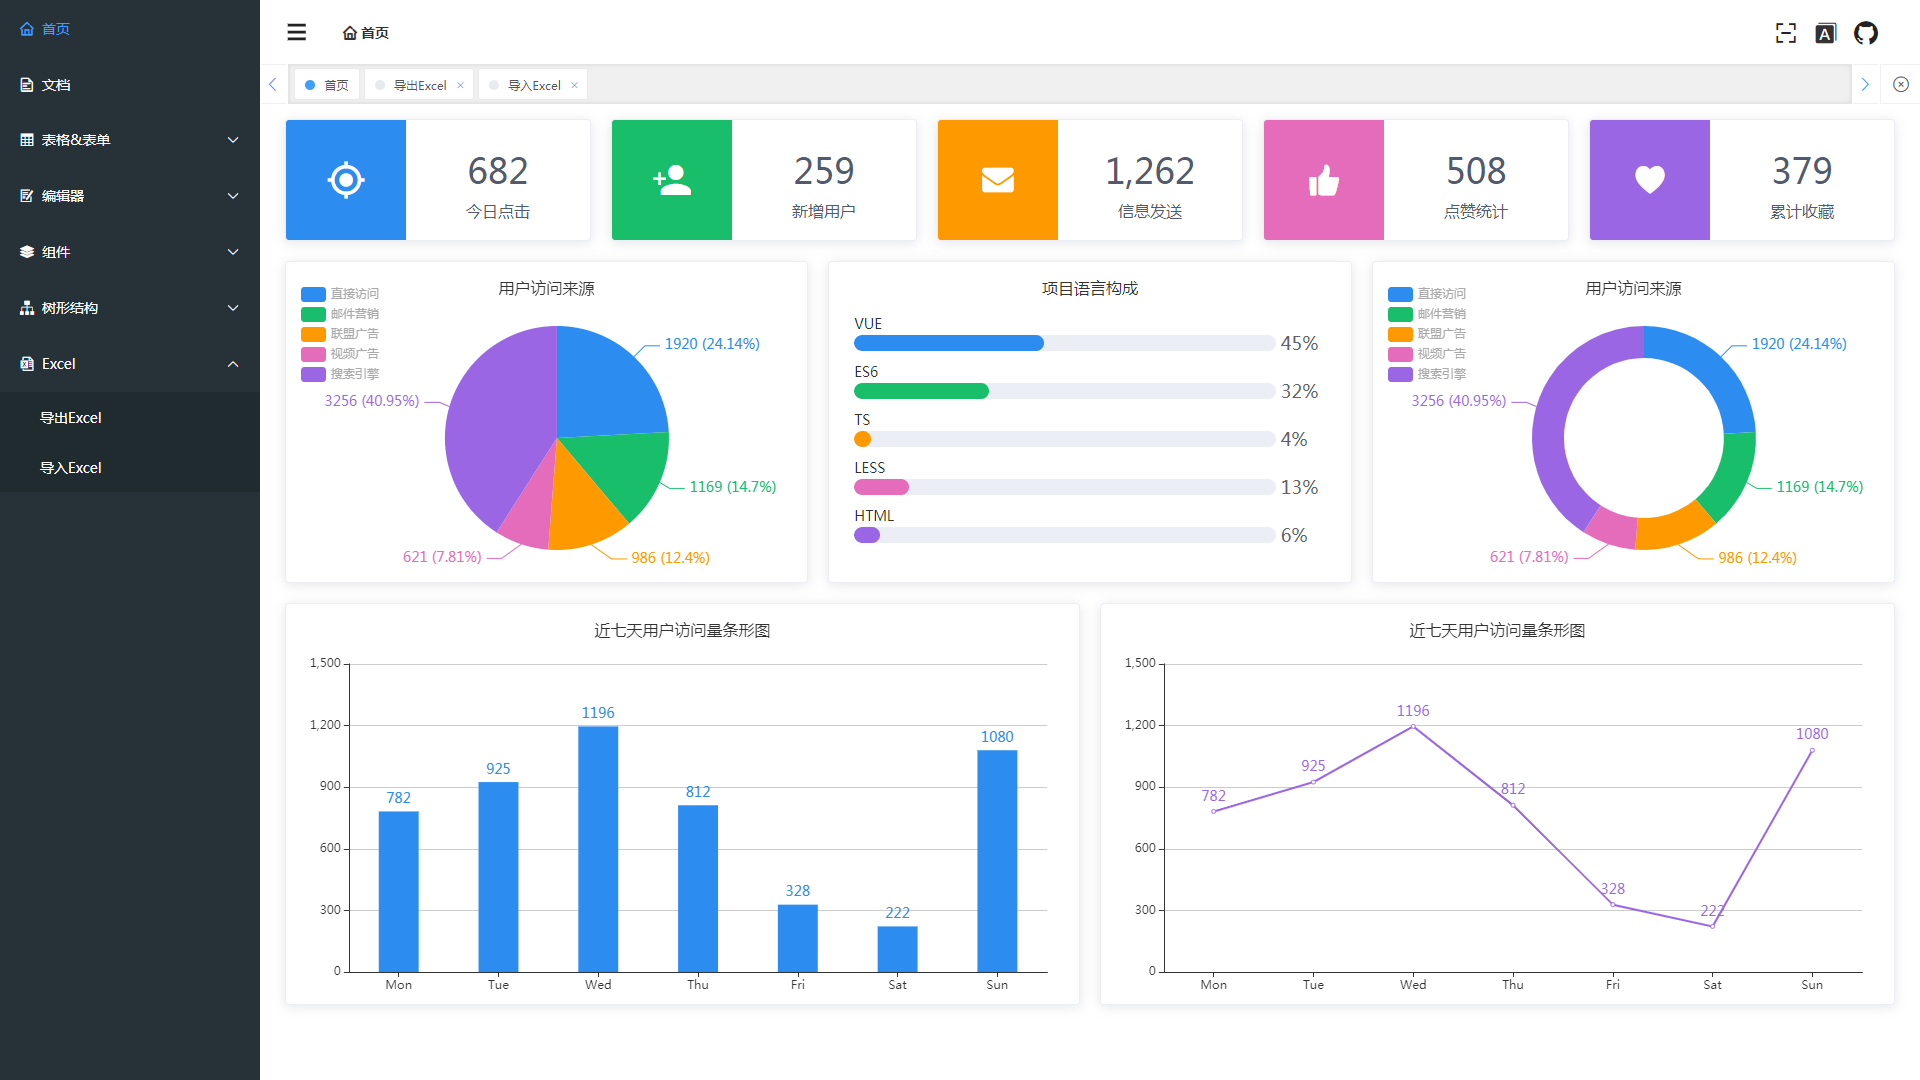
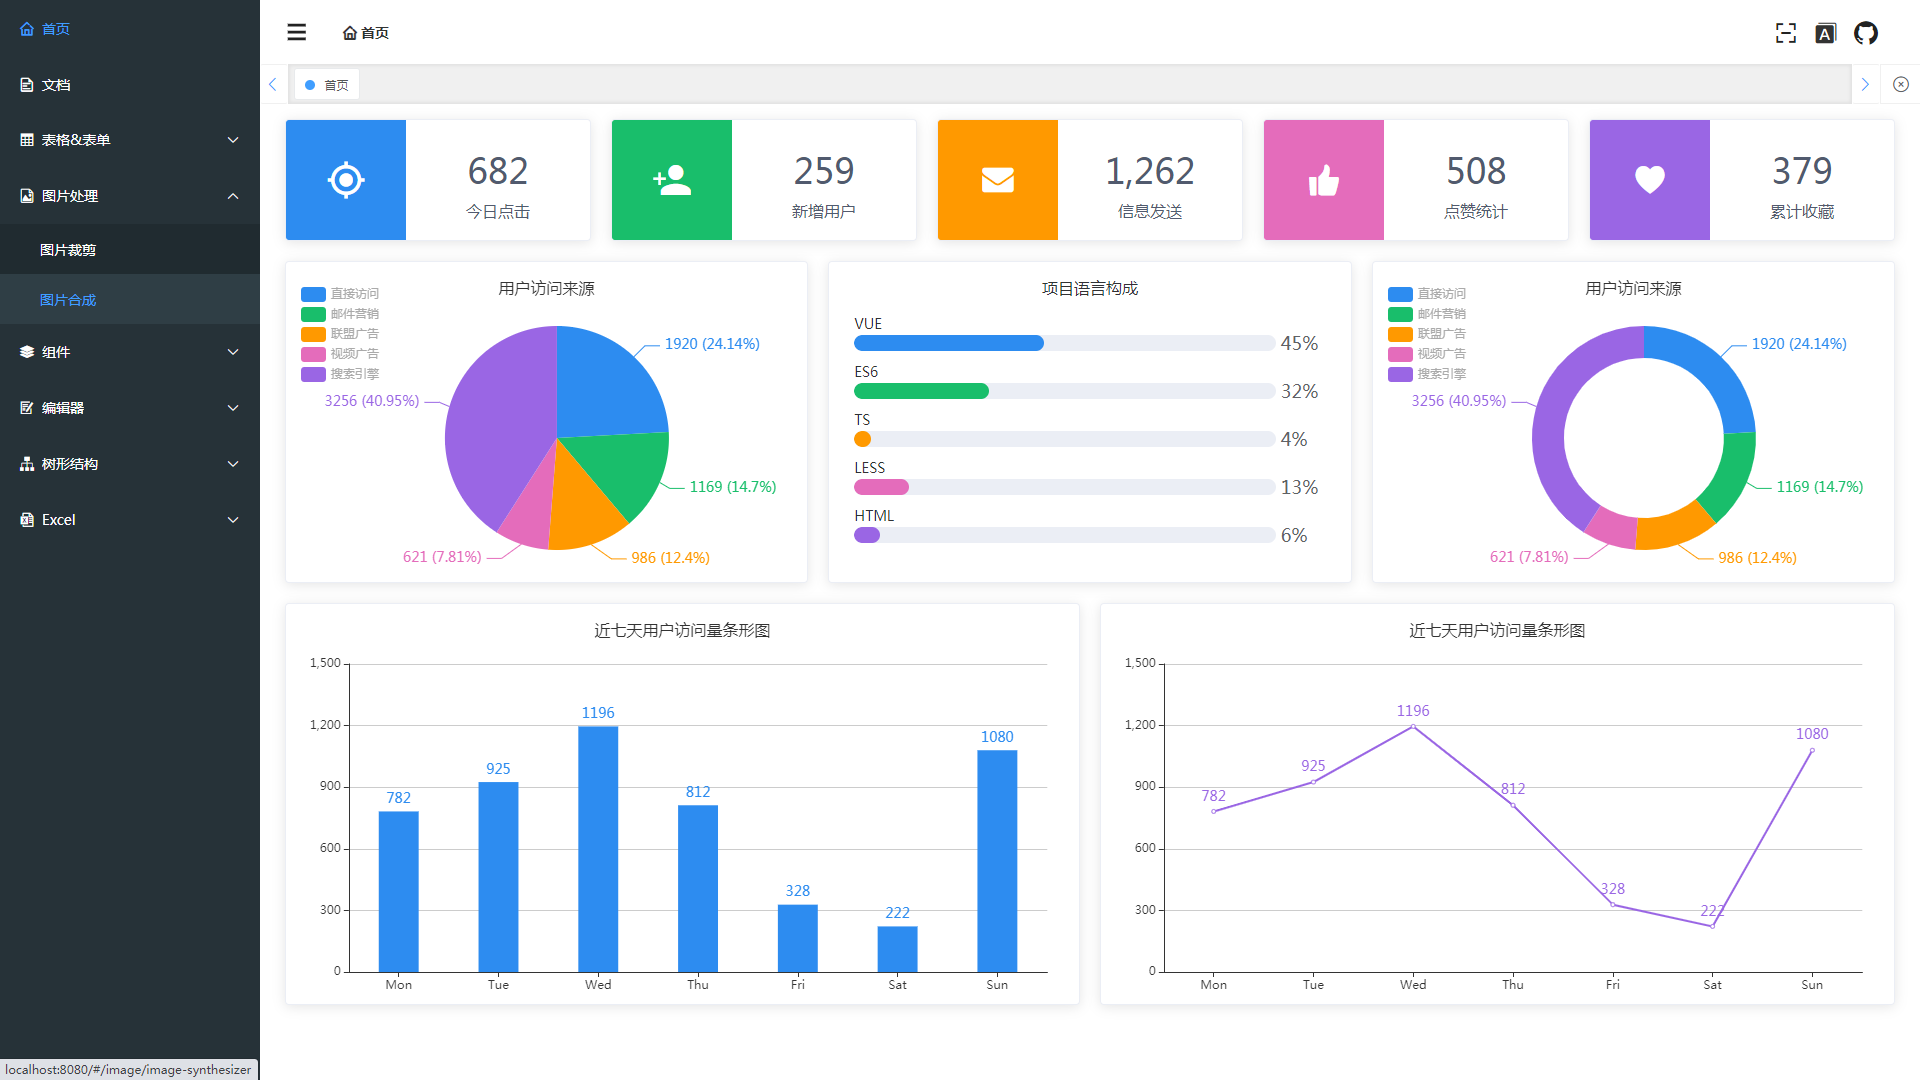
解决打包static文件丢失bug

diff --git a/src/router/index.js b/src/router/index.js
@@ -87,29 +87,29 @@ export default new Router({
       ]
     },
     {
-      path: '/editors',
-      name: 'Editors',
+      path: '/image',
+      name: 'Image',
       component: Layout,
-      redirect: '/editors/markdown',
+      redirect: '',
       meta: {
-        title: '编辑器',
-        icon: 'vue-sys-icon-bianjiqi'
+        title: '图片处理',
+        icon: 'vue-sys-icon-picture'
       },
       children: [
         {
-          path: 'markdown',
-          name: 'Markdown',
-          component: () => import('../views/editors/MarkdownEditor'),
+          path: 'image-cropper',
+          name: 'ImageCropper',
+          component: () => import('../views/image/ImageCropper'),
           meta: {
-            title: 'Markdown编辑器'
+            title: '图片裁剪'
           }
         },
         {
-          path: 'rich-text',
-          name: 'ImageRichText',
-          component: () => import('../views/editors/RichTextEditor'),
+          path: 'image-synthesizer',
+          name: 'ImageSynthesizer',
+          component: () => import('../views/image/ImageSynthesizer'),
           meta: {
-            title: '富文本编辑器'
+            title: '图片合成'
           }
         }
       ]
@@ -178,29 +178,29 @@ export default new Router({
       ]
     },
     {
-      path: '/image',
-      name: 'Image',
+      path: '/editors',
+      name: 'Editors',
       component: Layout,
-      redirect: '',
+      redirect: '/editors/markdown',
       meta: {
-        title: '图片处理',
-        icon: 'vue-sys-icon-picture'
+        title: '编辑器',
+        icon: 'vue-sys-icon-bianjiqi'
       },
       children: [
         {
-          path: 'image-cropper',
-          name: 'ImageCropper',
-          component: () => import('../views/image/ImageCropper'),
+          path: 'markdown',
+          name: 'Markdown',
+          component: () => import('../views/editors/MarkdownEditor'),
           meta: {
-            title: '图片裁剪'
+            title: 'Markdown编辑器'
           }
         },
         {
-          path: 'image-synthesizer',
-          name: 'ImageSynthesizer',
-          component: () => import('../views/image/ImageSynthesizer'),
+          path: 'rich-text',
+          name: 'ImageRichText',
+          component: () => import('../views/editors/RichTextEditor'),
           meta: {
-            title: '图片合成'
+            title: '富文本编辑器'
           }
         }
       ]

diff --git a/src/views/image/ImageSynthesizer.vue b/src/views/image/ImageSynthesizer.vue
@@ -70,7 +70,7 @@ export default {
       container: { // 展示区（可拖拽区）样式
         width: 0,
         height: 0,
-        bgImageSrc: '../../../static/img/crop-image.jpg' // 底图路径
+        bgImageSrc: './static/img/crop-image.jpg' // 底图路径
       },
       elements: [], // 叠加组件数组
       activeEle: {}, // 当前图片上聚焦的叠加组件
@@ -98,7 +98,7 @@ export default {
     this.addText()
     this.addImage({
       active: false,
-      src: '../../../static/img/add-image.jpeg',
+      src: './static/img/add-image.jpeg',
       size: 53248,
       width: 132,
       height: 132

diff --git a/src/views/tools/ImageUpload.vue b/src/views/tools/ImageUpload.vue
@@ -58,7 +58,7 @@ export default {
     return {
       filesFormat: '.jpg, .jpeg, .gif, .png, .bmp',
       fileList: [
-        { name: 'beautiful-girl.jpg', url: '../../../static/img/crop-image.jpg' }
+        { name: 'beautiful-girl.jpg', url: './static/img/crop-image.jpg' }
       ],
       dialogImageUrl: '',
       dialogVisible: false

diff --git a/src/views/image/ImageCropper.vue b/src/views/image/ImageCropper.vue
@@ -68,7 +68,7 @@ export default {
   data () {
     return {
       configObj: {
-        imgSrc: '../../../static/img/crop-image.jpg',
+        imgSrc: './static/img/crop-image.jpg',
         canMove: false,
         autoCrop: true,
         centerBox: true,

diff --git a/README.md b/README.md
@@ -10,24 +10,42 @@
 
 - 表格&表单
   - 综合表格
-  - 表单
+  - 表单列表
   - 行内编辑表格
 
-- 编辑器
-  - Markdown编辑器
-  - 富文本编辑器
+- 图片处理
+
+  - 图片裁剪
+
+  - 图片合成
 
 - 组件
   - 图片上传
+  
+  - 拖拽
+  
   - 列表拖拽
+  
+    - 组件拖拽
+  
   - 穿梭框
+  
   - 数字滚动
+
+- 编辑器
+
+  - Markdown编辑器
+
+  - 富文本编辑器
+
 - 树形结构
   - 组织树
+
   - 控件树
 
 - Excel
   - Excel导出
+
   - Excel导入
 
 ## Getting started
